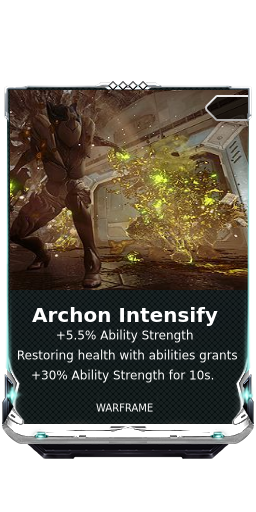
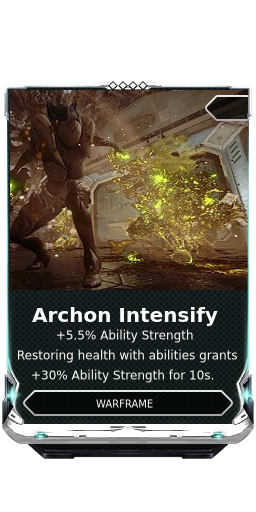
chore: draw compat lower tab

Changed region(s): [[0.0938, 0.75, 0.9062, 0.8125]]

diff --git a/src/drawers.ts b/src/drawers.ts
@@ -69,6 +69,7 @@ export async function drawBackground(
   const surface = await getBackground(toDraw.tier);
 
   context.drawImage(surface.background, 0, 0);
+  context.drawImage(surface.lowerTab, 23, 390);
   if (toDraw.thumbnail) {
     const thumb = `https://cdn.warframestat.us/img/${toDraw.thumbnail}`;
     context.drawImage(await loadImage(thumb), 10, 90, 239, 200);
@@ -110,6 +111,6 @@ export function drawText(
 
   if (compatName) {
     context.font = "10px Arial";
-    context.fillText(compatName, 125, 408);
+    context.fillText(compatName, 125, 404);
   }
 }
